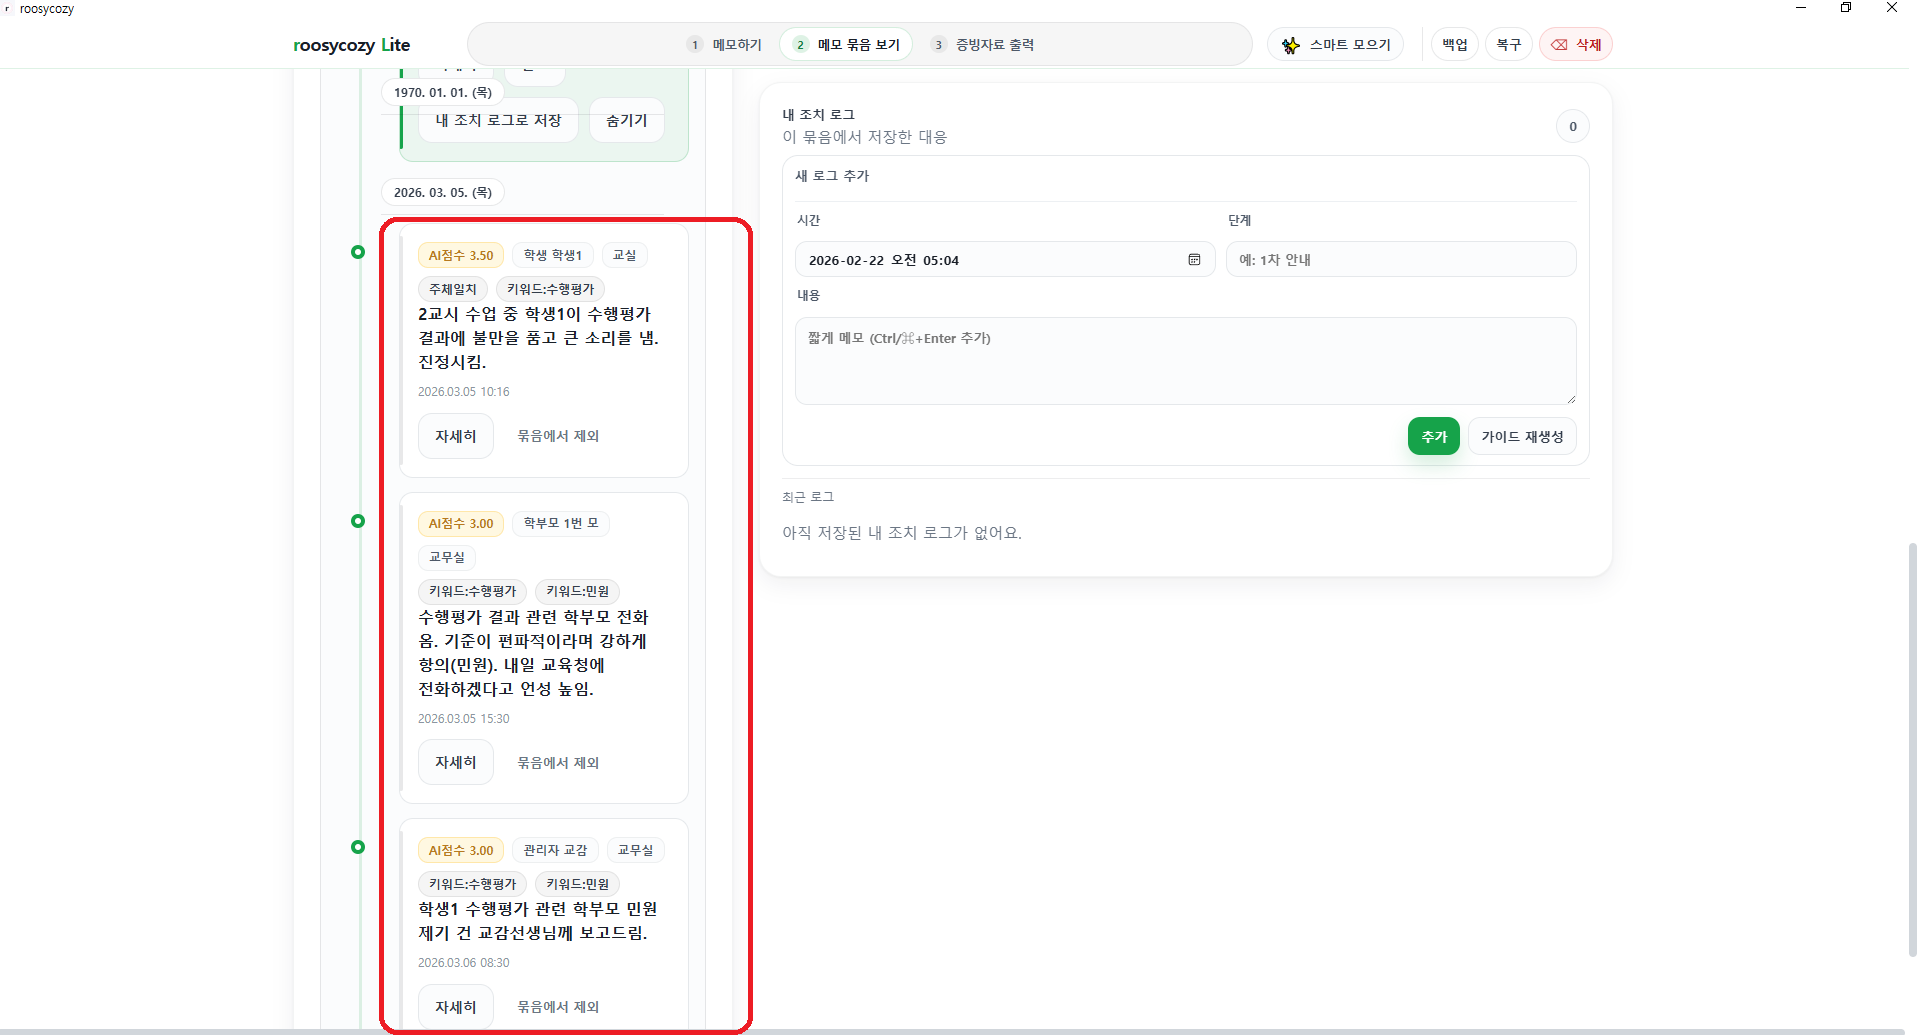
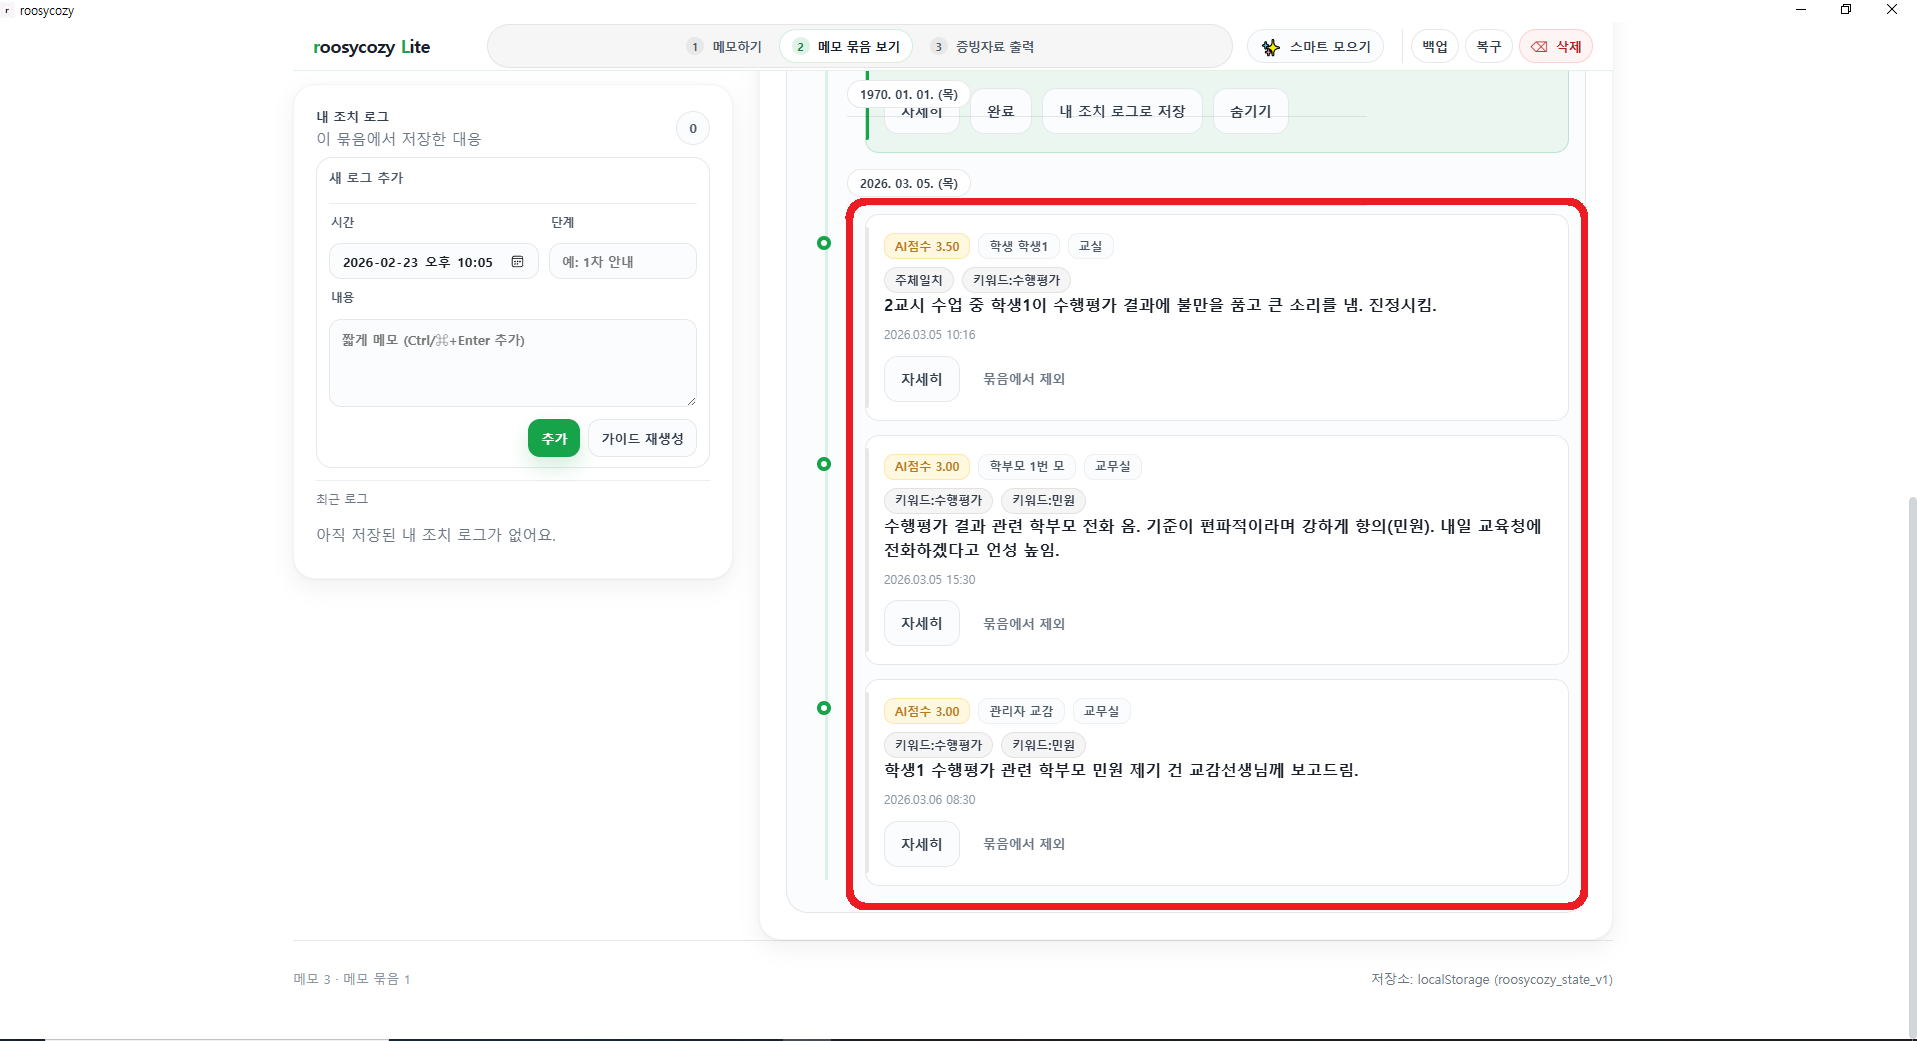
Add files via upload

diff --git a/beta.html b/beta.html
@@ -282,7 +282,7 @@
             </p>
 
             <div style="background: #fff8e1; border-left: 4px solid #f57f17; padding: 12px 15px; margin-bottom: 15px; border-radius: 0 8px 8px 0; font-size: 0.9rem; color: #555;">
-                👇 <b>확인 꿀팁:</b> 왼쪽의 타임라인 영역을 <b>아래로 스크롤(마우스 휠 굴리기)</b> 해보세요! 오전에 있었던 교실 소란부터 교감선생님 보고까지 3개의 기록이 모두 엮여있는 모습을 확인하실 수 있습니다.
+                👇 <b>확인 꿀팁:</b> 화면 우측(본문) 영역을 <b>아래로 스크롤(마우스 휠 굴리기)</b> 해보세요! 상단에 뜨는 AI '대응 가이드'들을 지나 아래로 내려가면, 우리가 방금 입력한 3개의 기록이 찰떡같이 모여있는 모습을 확인하실 수 있습니다.
             </div>
 
             <div class="zoom-container" style="margin-bottom: 15px;">
